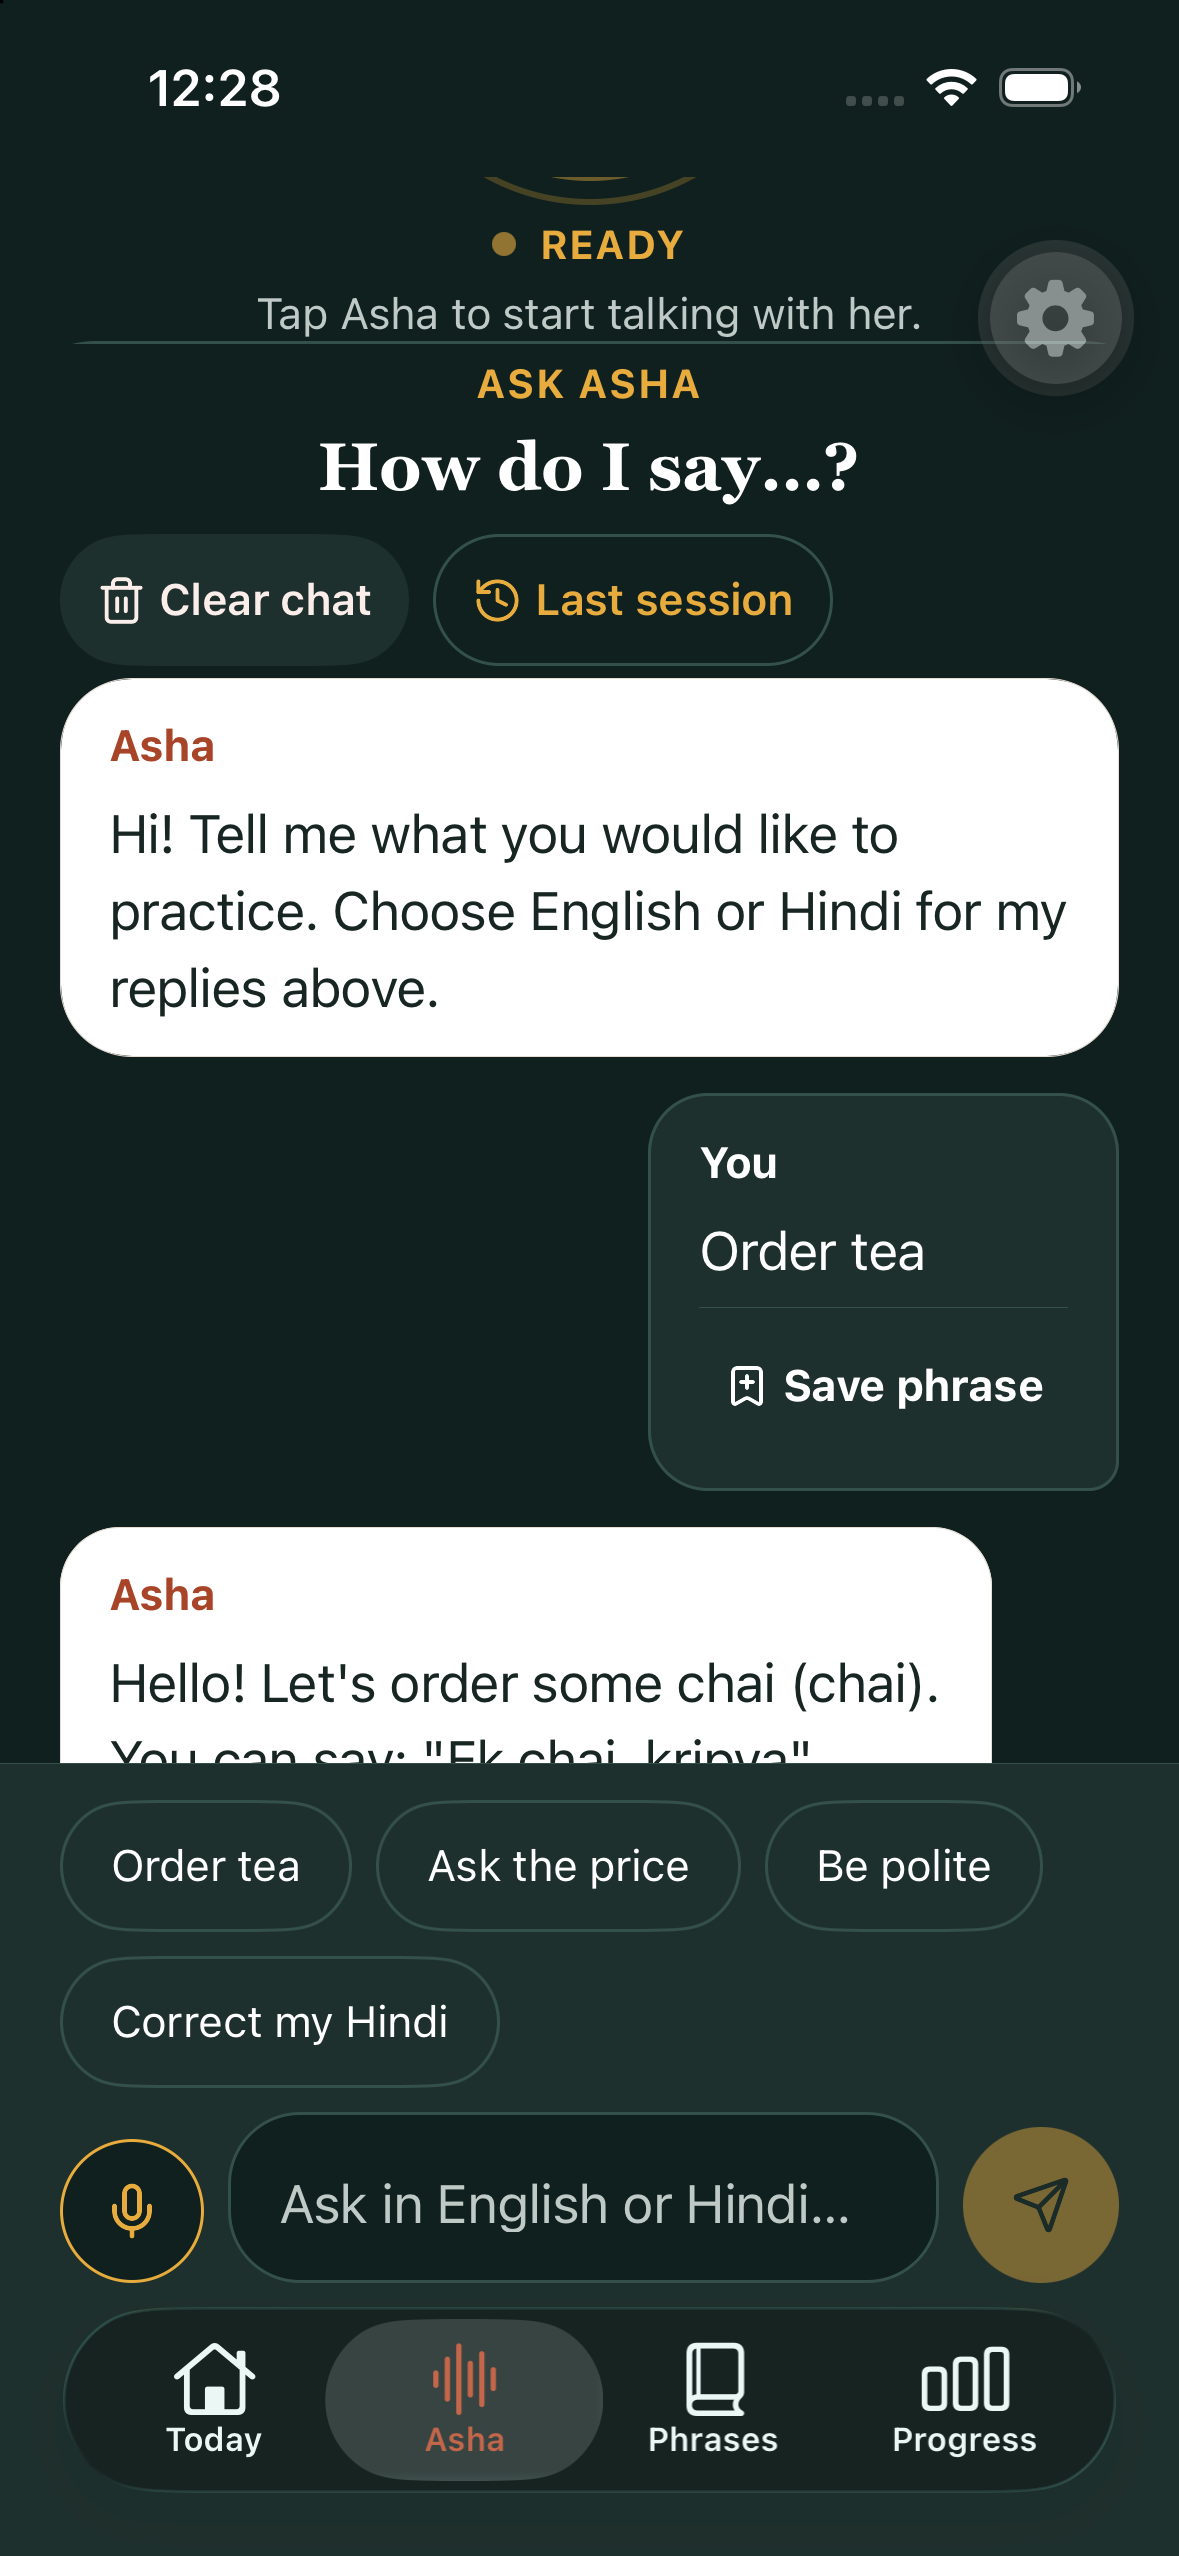
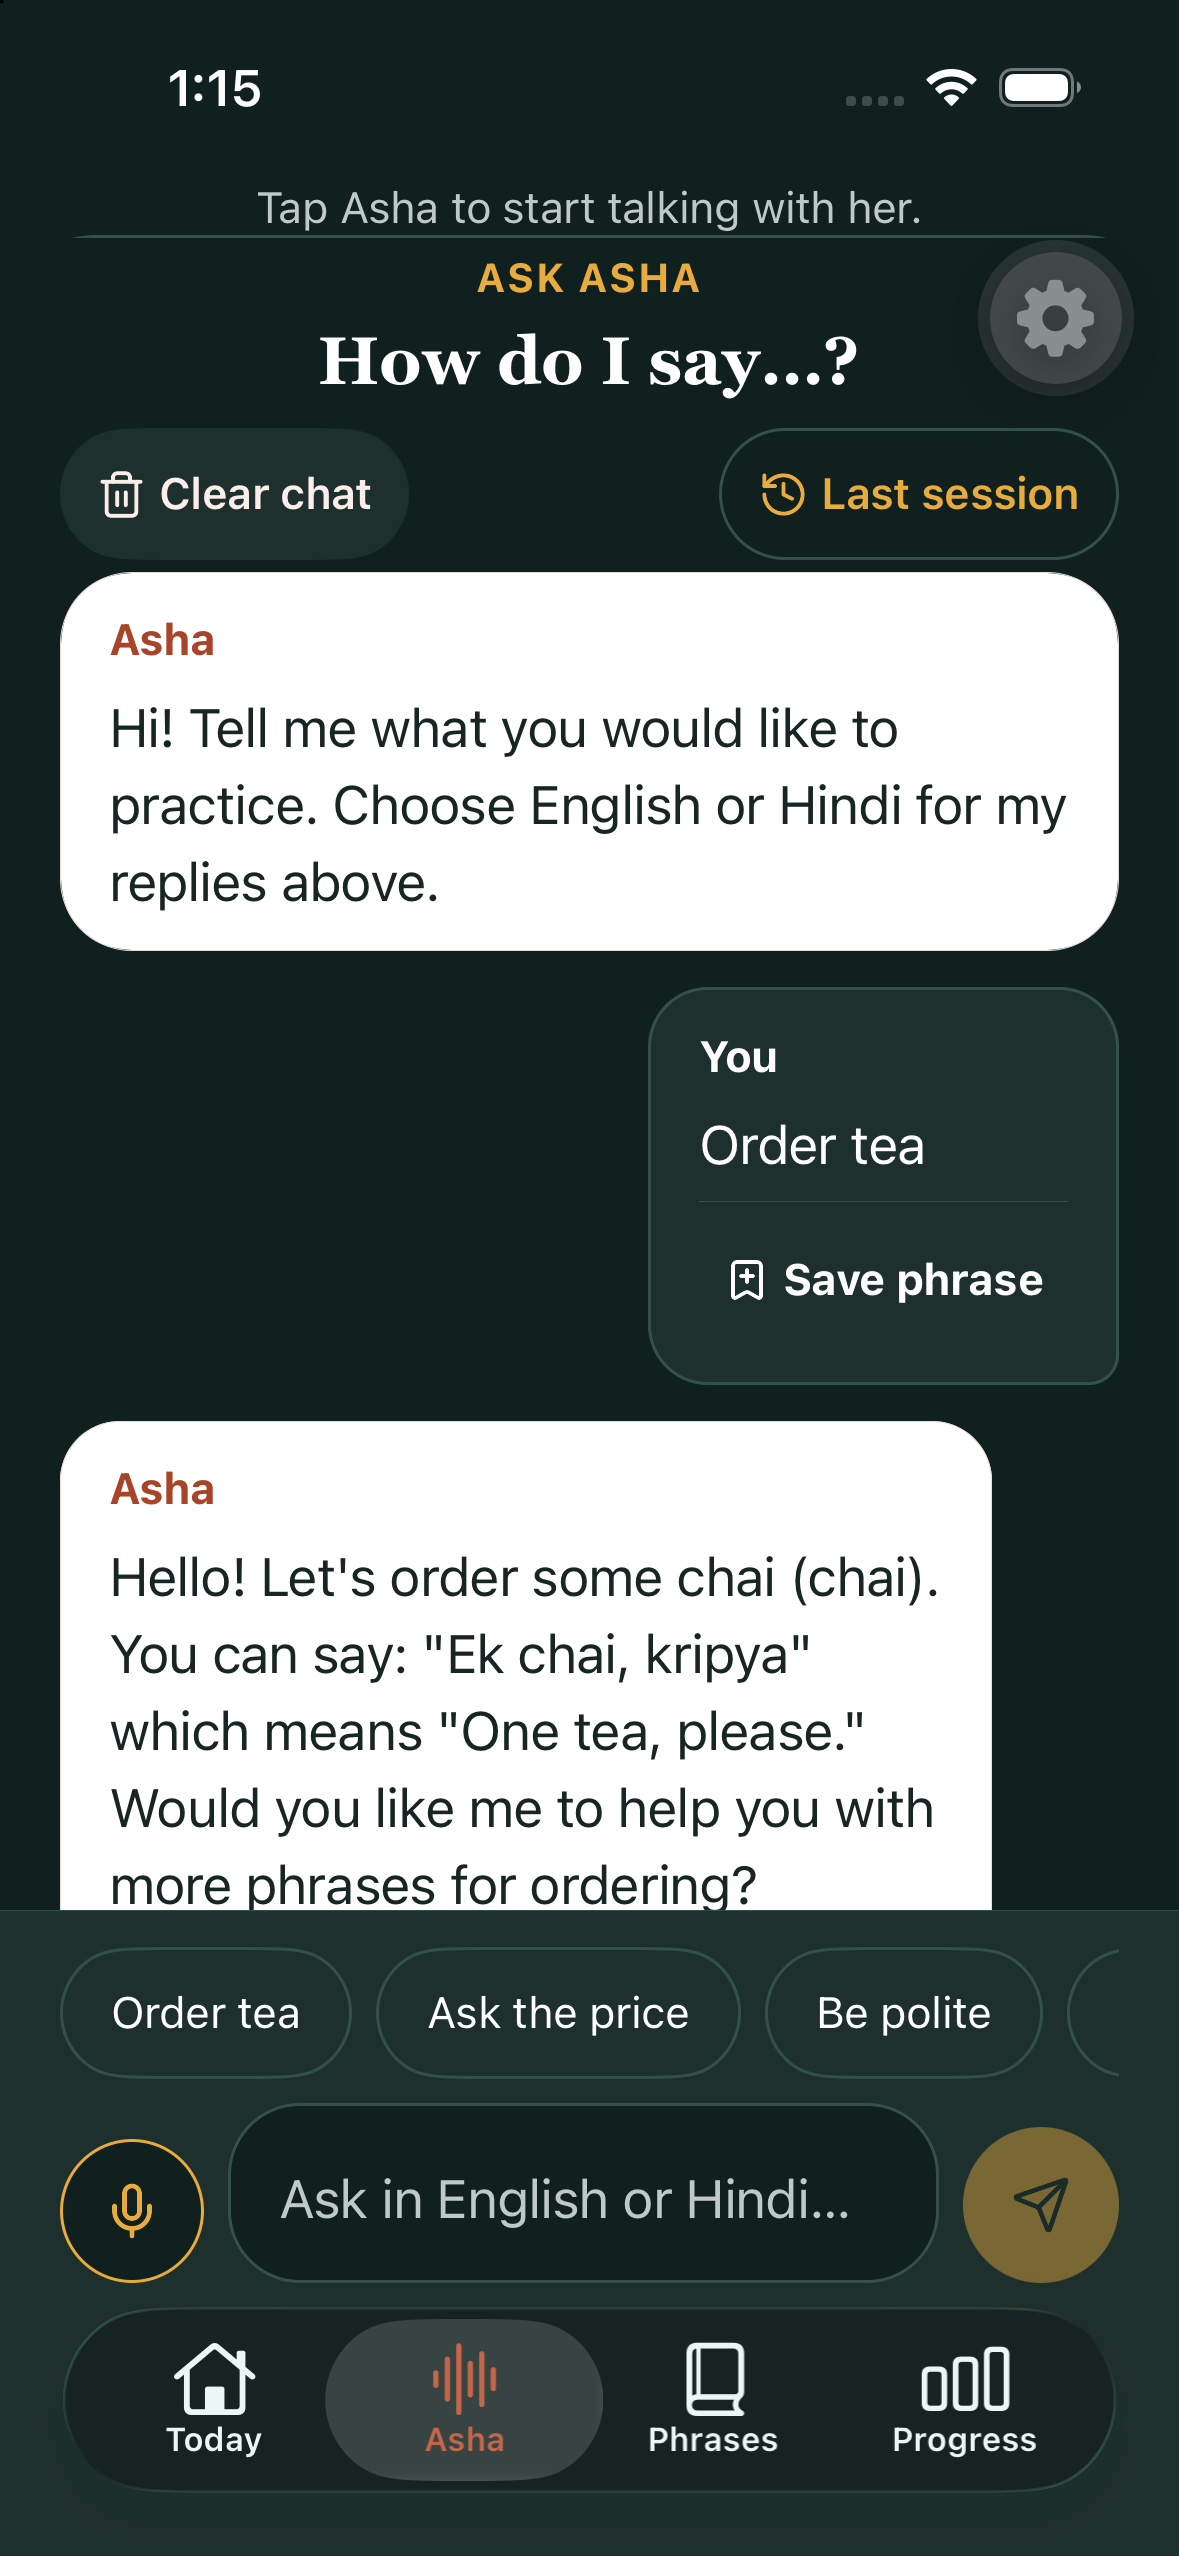
Keep suggestion chips on one scrolling row and space the header actions.
Clear chat stays left and Last session stays right under the centered title. The chip row scrolls inside the screen gutter so the last chip can peek without being cut at the screen edge.

Changed region(s): [[0.0305, 0.0309, 0.9466, 0.8654], [0.6412, 0.8345, 0.6718, 0.8654], [0.4275, 0.8654, 0.458, 0.8963]]

diff --git a/src/app/(tabs)/live.tsx b/src/app/(tabs)/live.tsx
@@ -4,7 +4,7 @@ import { setStatusBarStyle } from 'expo-status-bar';
 import { PressableFeedback } from 'heroui-native/pressable-feedback';
 import { AlertCircle, History, Lock, MessageCircle, Mic, MicOff, Sprout, Trash2, Volume2, X } from 'lucide-react-native';
 import { useCallback, useEffect, useLayoutEffect, useMemo, useRef, useState, type ReactNode } from 'react';
-import { ActivityIndicator, Animated, AppState, Dimensions, FlatList, Keyboard, KeyboardAvoidingView, Linking, Platform, StyleSheet, Text, useWindowDimensions, View, type StyleProp, type ViewStyle } from 'react-native';
+import { ActivityIndicator, Animated, AppState, Dimensions, FlatList, Keyboard, KeyboardAvoidingView, Linking, Platform, ScrollView, StyleSheet, Text, useWindowDimensions, View, type StyleProp, type ViewStyle } from 'react-native';
 import { SafeAreaView, useSafeAreaInsets } from 'react-native-safe-area-context';
 
 import { AiConsentGate } from '@/components/ai-consent-gate';
@@ -1068,7 +1068,7 @@ export default function LiveScreen() {
                         <Text style={styles.clearChatText}>Clear chat</Text>
                       </Pressable>
                     ) : null}
-                    {lastSessionButton}
+                    <View style={styles.lastSessionSlot}>{lastSessionButton}</View>
                   </View>
                 </View>
                 {unassociatedReports.length ? (
@@ -1182,19 +1182,28 @@ export default function LiveScreen() {
             </Pressable>
           </View>
         ) : null}
-        <View style={styles.examples} testID="live-example-chips">
-          {['Order tea', 'Ask the price', 'Be polite', 'Correct my Hindi'].map((example) => (
-            <PressableFeedback
-              accessibilityRole="button"
-              accessibilityState={{ disabled: busy || clearingChat || realtimeLocked }}
-              isDisabled={busy || clearingChat || realtimeLocked}
-              key={example}
-              onPress={() => { void sendText(example); }}
-              style={[styles.example, (busy || clearingChat || realtimeLocked) && styles.disabled]}
-            >
-              <Text style={styles.exampleText}>{example}</Text>
-            </PressableFeedback>
-          ))}
+        <View style={styles.exampleClip}>
+          <ScrollView
+            horizontal
+            keyboardShouldPersistTaps="handled"
+            showsHorizontalScrollIndicator={false}
+            style={styles.exampleScroller}
+            contentContainerStyle={styles.examples}
+            testID="live-example-chips"
+          >
+            {['Order tea', 'Ask the price', 'Be polite', 'Correct my Hindi'].map((example, index, examples) => (
+              <PressableFeedback
+                accessibilityRole="button"
+                accessibilityState={{ disabled: busy || clearingChat || realtimeLocked }}
+                isDisabled={busy || clearingChat || realtimeLocked}
+                key={example}
+                onPress={() => { void sendText(example); }}
+                style={[styles.example, index < examples.length - 1 && styles.exampleSpacer, (busy || clearingChat || realtimeLocked) && styles.disabled]}
+              >
+                <Text style={styles.exampleText}>{example}</Text>
+              </PressableFeedback>
+            ))}
+          </ScrollView>
         </View>
         <View style={styles.composerEntry}>
           {conversationStarted && composerMicActionBound ? (
@@ -1301,7 +1310,8 @@ export const createLiveStyles = (c: ReturnType<typeof useTheme>['colors']) => ({
   askHeading: { width: '100%', alignSelf: 'stretch', flexDirection: 'column', alignItems: 'stretch', gap: spacing.sm },
   askHeadingCopy: { minWidth: 0, alignSelf: 'stretch', alignItems: 'center', gap: spacing.xs },
   askHeadingCopyCompact: { gap: 0 },
-  askHeadingActions: { width: '100%', flexDirection: 'row', flexWrap: 'wrap', alignItems: 'center', justifyContent: 'flex-start', gap: spacing.sm },
+  askHeadingActions: { width: '100%', flexDirection: 'row', flexWrap: 'wrap', alignItems: 'center', justifyContent: 'space-between', columnGap: spacing.md, rowGap: spacing.sm },
+  lastSessionSlot: { marginLeft: 'auto', maxWidth: '100%', flexShrink: 0 },
   askEyebrow: { ...type.eyebrow, alignSelf: 'stretch', color: c.gold, textAlign: 'center' },
   askTitle: { ...type.headline, alignSelf: 'stretch', color: c.white, textAlign: 'center', fontWeight: '600' },
   clearChatButton: { minHeight: layout.touchTarget, maxWidth: '100%', flexShrink: 0, flexDirection: 'row', gap: spacing.xs, paddingHorizontal: spacing.md, paddingVertical: spacing.sm, borderRadius: radius.pill, borderCurve: 'continuous', backgroundColor: c.nightSurface, alignItems: 'center', justifyContent: 'center' },
@@ -1357,10 +1367,14 @@ export const createLiveStyles = (c: ReturnType<typeof useTheme>['colors']) => ({
   correctionSayRoman: { color: c.forestText },
   correctionEnglish: { ...type.caption, width: '100%', color: c.muted },
   correctionNote: { ...type.caption, color: c.muted, paddingHorizontal: spacing.md, paddingVertical: spacing.sm, borderTopWidth: StyleSheet.hairlineWidth, borderTopColor: c.line },
-  composer: { width: '100%', alignSelf: 'stretch', backgroundColor: c.nightSurface, borderTopColor: c.nightLine, borderTopWidth: StyleSheet.hairlineWidth, paddingHorizontal: spacing.gutter, paddingTop: spacing.md, gap: spacing.sm },
-  examples: { flexDirection: 'row', flexWrap: 'wrap', alignItems: 'center', justifyContent: 'flex-start', gap: spacing.sm, paddingRight: layout.chipEndInset },
-  example: { minHeight: layout.touchTarget, maxWidth: '100%', flexShrink: 0, borderRadius: radius.pill, borderCurve: 'continuous', backgroundColor: 'transparent', borderColor: c.nightLine, borderWidth: 1, justifyContent: 'center', alignItems: 'center', paddingHorizontal: spacing.lg },
-  exampleText: { ...type.caption, flexShrink: 1, color: c.white, textAlign: 'center' },
+  composer: { width: '100%', alignSelf: 'stretch', backgroundColor: c.nightSurface, borderTopColor: c.nightLine, borderTopWidth: StyleSheet.hairlineWidth, paddingHorizontal: layout.chipEndInset, paddingTop: spacing.md, gap: spacing.sm },
+  // The scroller stays inside the gutter. flexGrow 0 stops the row from painting out to the screen edge.
+  exampleClip: { alignSelf: 'stretch', overflow: 'hidden' },
+  exampleScroller: { flexGrow: 0 },
+  examples: { flexDirection: 'row', alignItems: 'center', paddingRight: layout.chipEndInset },
+  exampleSpacer: { marginRight: spacing.sm },
+  example: { minHeight: layout.touchTarget, flexShrink: 0, borderRadius: radius.pill, borderCurve: 'continuous', backgroundColor: 'transparent', borderColor: c.nightLine, borderWidth: 1, justifyContent: 'center', alignItems: 'center', paddingHorizontal: spacing.lg },
+  exampleText: { ...type.caption, color: c.white, textAlign: 'center' },
   composerEntry: { flexDirection: 'row', alignItems: 'flex-end', gap: spacing.sm },
   // LiveComposer's root: fills the row beside the mic toggle and stacks the character count above the input.
   composerField: { flex: 1, minWidth: 0, gap: spacing.xs },

diff --git a/__tests__/live-runtime-regressions.test.tsx b/__tests__/live-runtime-regressions.test.tsx
@@ -803,21 +803,26 @@ describe('live theme styles', () => {
     expect('textTransform' in styles.captionLabel).toBe(false);
     expect('minHeight' in styles.voiceHero).toBe(false);
     expect('minHeight' in styles.voiceHeroCompact).toBe(false);
-    expect(styles.examples.flexWrap).toBe('wrap');
+    expect('flexWrap' in styles.examples).toBe(false);
+    expect(styles.examples.flexDirection).toBe('row');
     expect(styles.examples.paddingRight).toBe(layout.chipEndInset);
+    expect(styles.composer.paddingHorizontal).toBe(layout.chipEndInset);
+    expect(styles.exampleClip.overflow).toBe('hidden');
+    expect(styles.exampleScroller.flexGrow).toBe(0);
     expect(layout.chipEndInset).toBe(spacing.gutter);
     expect(layout.touchTarget).toBe(44);
     expect(styles.askHeading.flexDirection).toBe('column');
     expect(styles.askTitle.alignSelf).toBe('stretch');
+    expect(styles.askTitle.textAlign).toBe('center');
     expect(styles.askHeadingActions.flexDirection).toBe('row');
     expect(styles.askHeadingActions.flexWrap).toBe('wrap');
-    expect(styles.askHeadingActions.justifyContent).toBe('flex-start');
+    expect(styles.askHeadingActions.justifyContent).toBe('space-between');
+    expect(styles.lastSessionSlot.marginLeft).toBe('auto');
     expect(styles.clearChatButton.minHeight).toBe(layout.touchTarget);
     expect(styles.clearChatButton.flexShrink).toBe(0);
     expect(styles.lastSessionButton.minHeight).toBe(layout.touchTarget);
     expect(styles.lastSessionButton.flexShrink).toBe(0);
     expect(styles.example.minHeight).toBe(layout.touchTarget);
-    expect(styles.example.maxWidth).toBe('100%');
     expect(styles.example.flexShrink).toBe(0);
   });
 
@@ -839,11 +844,16 @@ describe('live theme styles', () => {
       expect(within(heading).getByText('How do I say…?')).toBeTruthy();
       expect(within(heading).queryByText('Last session')).toBeNull();
       expect(within(actions).getByText('Last session')).toBeTruthy();
-      expect(StyleSheet.flatten(actions.props.style).flexWrap).toBe('wrap');
-      expect(StyleSheet.flatten(chips.props.style)).toMatchObject({
+      expect(StyleSheet.flatten(actions.props.style)).toMatchObject({
         flexWrap: 'wrap',
+        justifyContent: 'space-between',
+      });
+      expect(chips.props.horizontal).toBe(true);
+      expect(StyleSheet.flatten(chips.props.contentContainerStyle)).toMatchObject({
+        flexDirection: 'row',
         paddingRight: layout.chipEndInset,
       });
+      expect(StyleSheet.flatten(chips.props.contentContainerStyle).flexWrap).toBeUndefined();
       expect(view.getByRole('button', { name: 'Correct my Hindi' })).toBeTruthy();
       await view.unmount();
       await flushMicrotasks();
